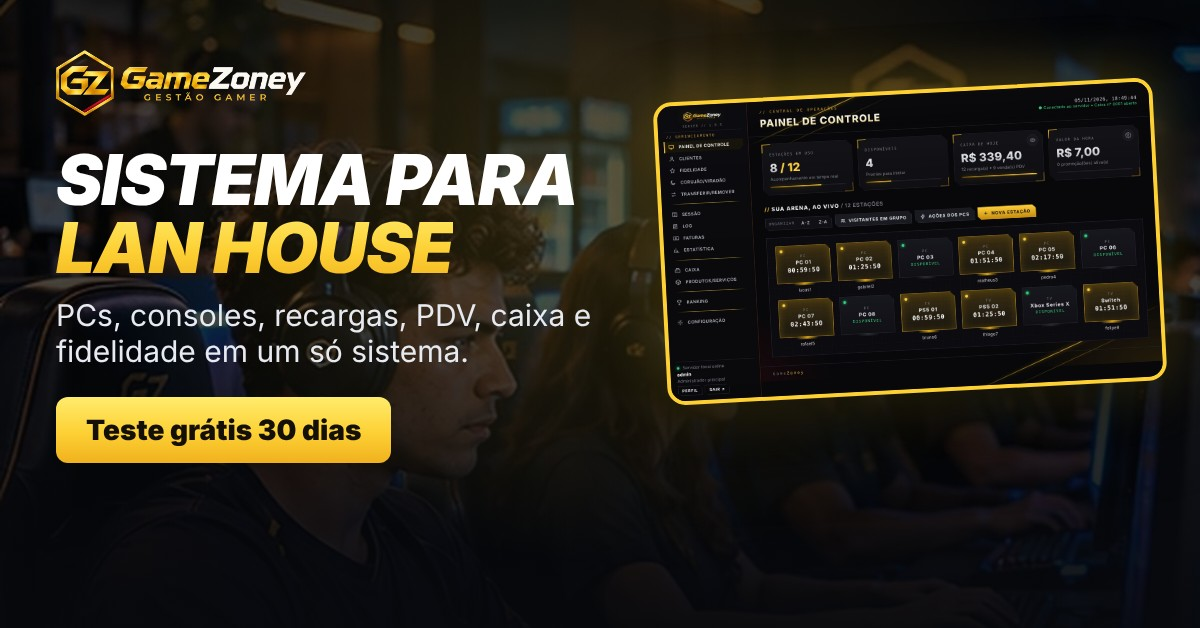
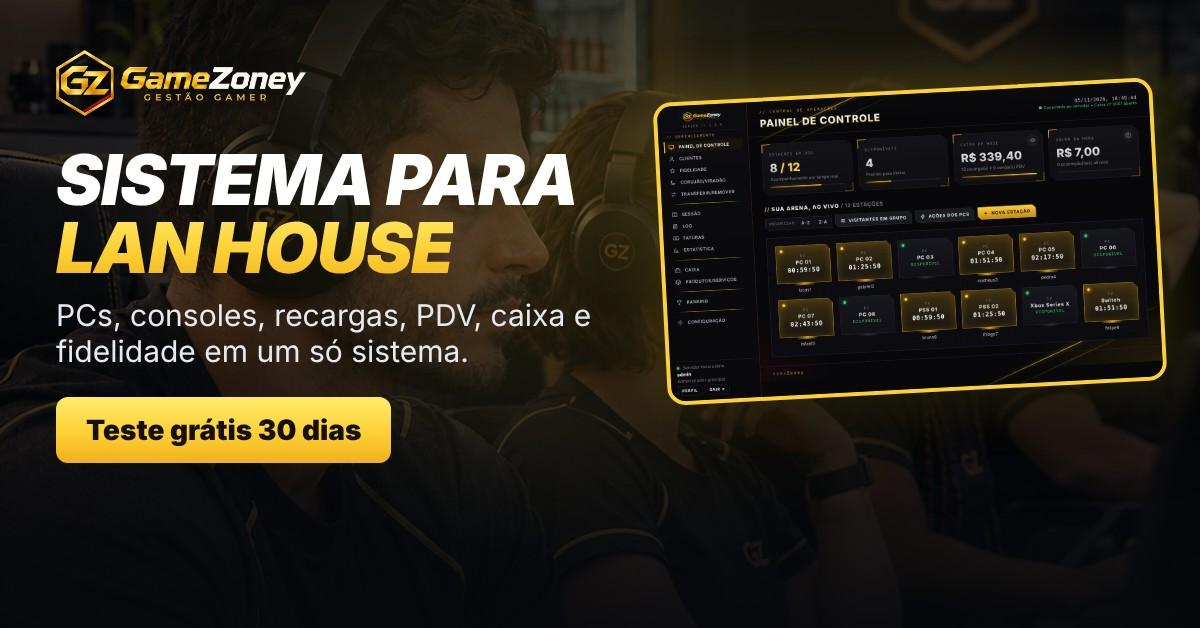
Site: nova foto da arena (fundo) com acabamento realista; og e peças de anúncio regeradas
- img/hero-arena.jpg trocada pela nova cena (1136x1108, mesmo nome: alterações do editor de design continuam valendo)
- acabamento de foto: profundidade de campo no fundo, nitidez, cor quente de cinema, vinheta e granulado fino
- index.html/entrar.html com width/height novos
- share/og-pt|en|es.jpg e marketing/anuncios/* regerados com a nova foto

Claude-Session: https://claude.ai/code/session_011pBjUp777QtjBT9w3kkM9L

diff --git a/site/public/entrar.html b/site/public/entrar.html
@@ -10,7 +10,7 @@
 <body class="auth">
 <a class="skip-link" href="#conteudo">Ir para o conteúdo</a>
 <header class="topbar"><div class="wrap"><a class="logo" href="/" aria-label="GameZoney — início"><img src="/logo-gamezoney.png" alt="GameZoney" width="960" height="253"></a><button class="menu-toggle" type="button" aria-expanded="false" aria-controls="site-navigation"><span class="menu-lines" aria-hidden="true"></span><span>Menu</span></button><nav class="nav" id="site-navigation" aria-label="Navegação principal"><a href="/#recursos">Recursos</a><a href="/#telas">Demonstração</a><a href="/#precos">Planos</a><a href="/atendimento.html">Atendimento</a><a href="/atualizacoes.html">Atualizações</a><a href="/entrar.html" data-guest>Entrar</a><a class="btn outline small" href="/entrar.html?criar=1&amp;next=/conta" data-guest>Testar grátis</a><a class="btn outline small hidden" href="/conta" data-member>Minha conta</a></nav></div></header>
-<main class="page auth-page" id="conteudo"><div class="wrap auth-layout"><aside class="auth-story"><p class="eyebrow">Seu próximo nível começa aqui</p><h1>Sua arena.<br><span class="goldtxt">Seu comando.</span></h1><p>Downloads, licenças e suporte. Tudo o que você precisa para começar e seguir em frente.</p><div class="auth-photo"><img src="/img/hero-arena.jpg" alt="Cena ilustrativa de uma arena gamer" width="1072" height="776"></div><div class="auth-trust"><span>30 dias para testar</span><span>Sem cartão de crédito</span></div></aside>
+<main class="page auth-page" id="conteudo"><div class="wrap auth-layout"><aside class="auth-story"><p class="eyebrow">Seu próximo nível começa aqui</p><h1>Sua arena.<br><span class="goldtxt">Seu comando.</span></h1><p>Downloads, licenças e suporte. Tudo o que você precisa para começar e seguir em frente.</p><div class="auth-photo"><img src="/img/hero-arena.jpg" alt="Cena ilustrativa de uma arena gamer" width="1136" height="1108"></div><div class="auth-trust"><span>30 dias para testar</span><span>Sem cartão de crédito</span></div></aside>
 <section class="box auth-box" aria-labelledby="auth-title"><p class="eyebrow">Acesso GameZoney</p><h2 id="auth-title">Bem-vindo de volta.</h2><p id="auth-description" class="note">Entre para acessar sua conta.</p><div class="auth-purchase hidden" id="auth-purchase"><span>Planos a partir de</span><strong data-plan-from>R$ 29,90</strong><small>por mês · cancele quando quiser</small></div>
 <div class="tabs" role="tablist" aria-label="Tipo de acesso"><button type="button" role="tab" id="auth-login-tab" aria-controls="login-form" aria-selected="true" data-tab="login" class="on">Entrar</button><button type="button" role="tab" id="auth-register-tab" aria-controls="register-form" aria-selected="false" data-tab="register" tabindex="-1">Criar conta</button></div>
 <div id="google-wrap" class="hidden"><a class="btn google" id="google" href="/auth/google" style="margin-top:20px"><svg viewBox="0 0 48 48" aria-hidden="true"><path fill="#FFC107" d="M43.6 20.5H42V20H24v8h11.3C33.7 32.7 29.2 36 24 36c-6.6 0-12-5.4-12-12s5.4-12 12-12c3.1 0 5.8 1.2 7.9 3.1l5.7-5.7C34 6.1 29.3 4 24 4 12.9 4 4 12.9 4 24s8.9 20 20 20 20-8.9 20-20c0-1.3-.1-2.4-.4-3.5z"/><path fill="#FF3D00" d="m6.3 14.7 6.6 4.8C14.7 15.1 19 12 24 12c3.1 0 5.8 1.2 7.9 3.1l5.7-5.7C34 6.1 29.3 4 24 4 16.3 4 9.7 8.3 6.3 14.7z"/><path fill="#4CAF50" d="M24 44c5.2 0 9.9-2 13.4-5.2l-6.2-5.2C29.2 35.1 26.7 36 24 36c-5.2 0-9.6-3.3-11.3-8l-6.5 5C9.5 39.6 16.2 44 24 44z"/><path fill="#1976D2" d="M43.6 20.5H42V20H24v8h11.3c-.8 2.2-2.2 4.2-4.1 5.6l6.2 5.2C37 39.2 44 34 44 24c0-1.3-.1-2.4-.4-3.5z"/></svg>Entrar com Google</a><div class="or">ou com e-mail</div></div>

diff --git a/site/public/index.html b/site/public/index.html
@@ -32,7 +32,7 @@
     <p class="exp">10 anos de experiência no ramo de gerenciamento de Arena Gamer e Cyber Cafés.</p>
   </div>
   <div class="hero2-media protect">
-    <div class="hero2-photo"><img src="/img/hero-arena.jpg" alt="Cena ilustrativa de jogadores em uma arena gamer" width="1072" height="776" fetchpriority="high" draggable="false"></div>
+    <div class="hero2-photo"><img src="/img/hero-arena.jpg" alt="Cena ilustrativa de jogadores em uma arena gamer" width="1136" height="1108" fetchpriority="high" draggable="false"></div>
     <div class="price-badge">
       <small>Planos a partir de</small>
       <strong data-plan-from>R$ 29,90</strong>
